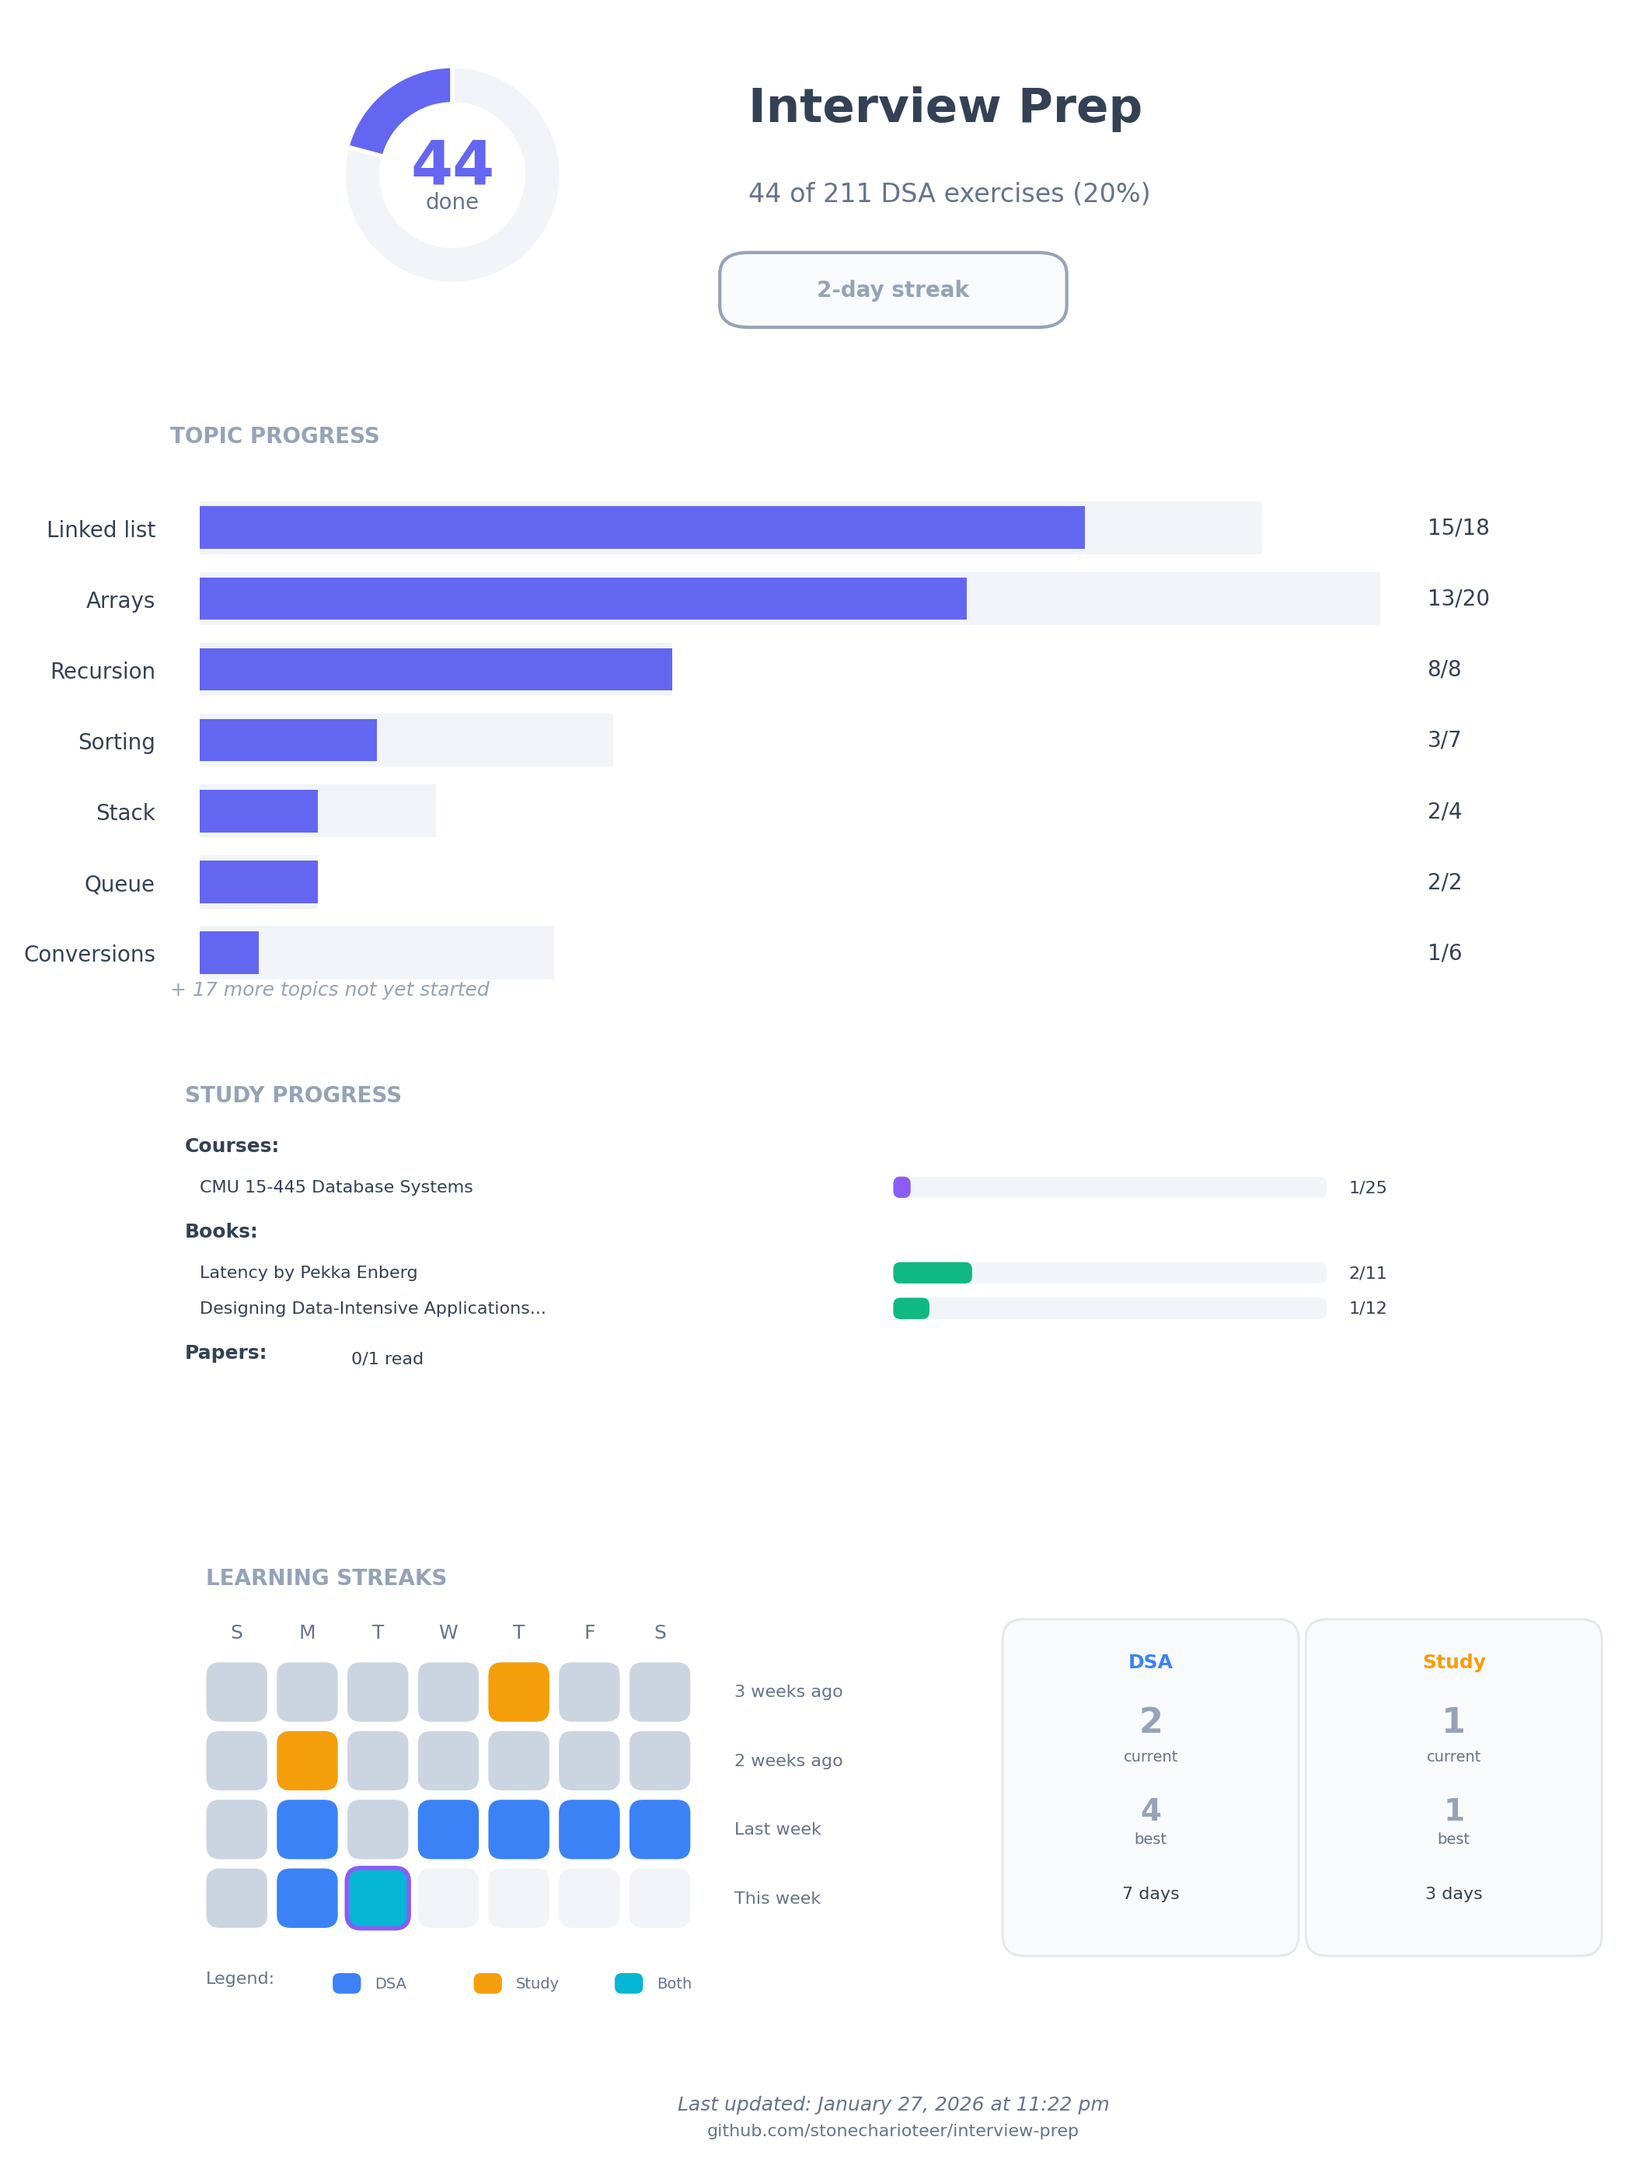
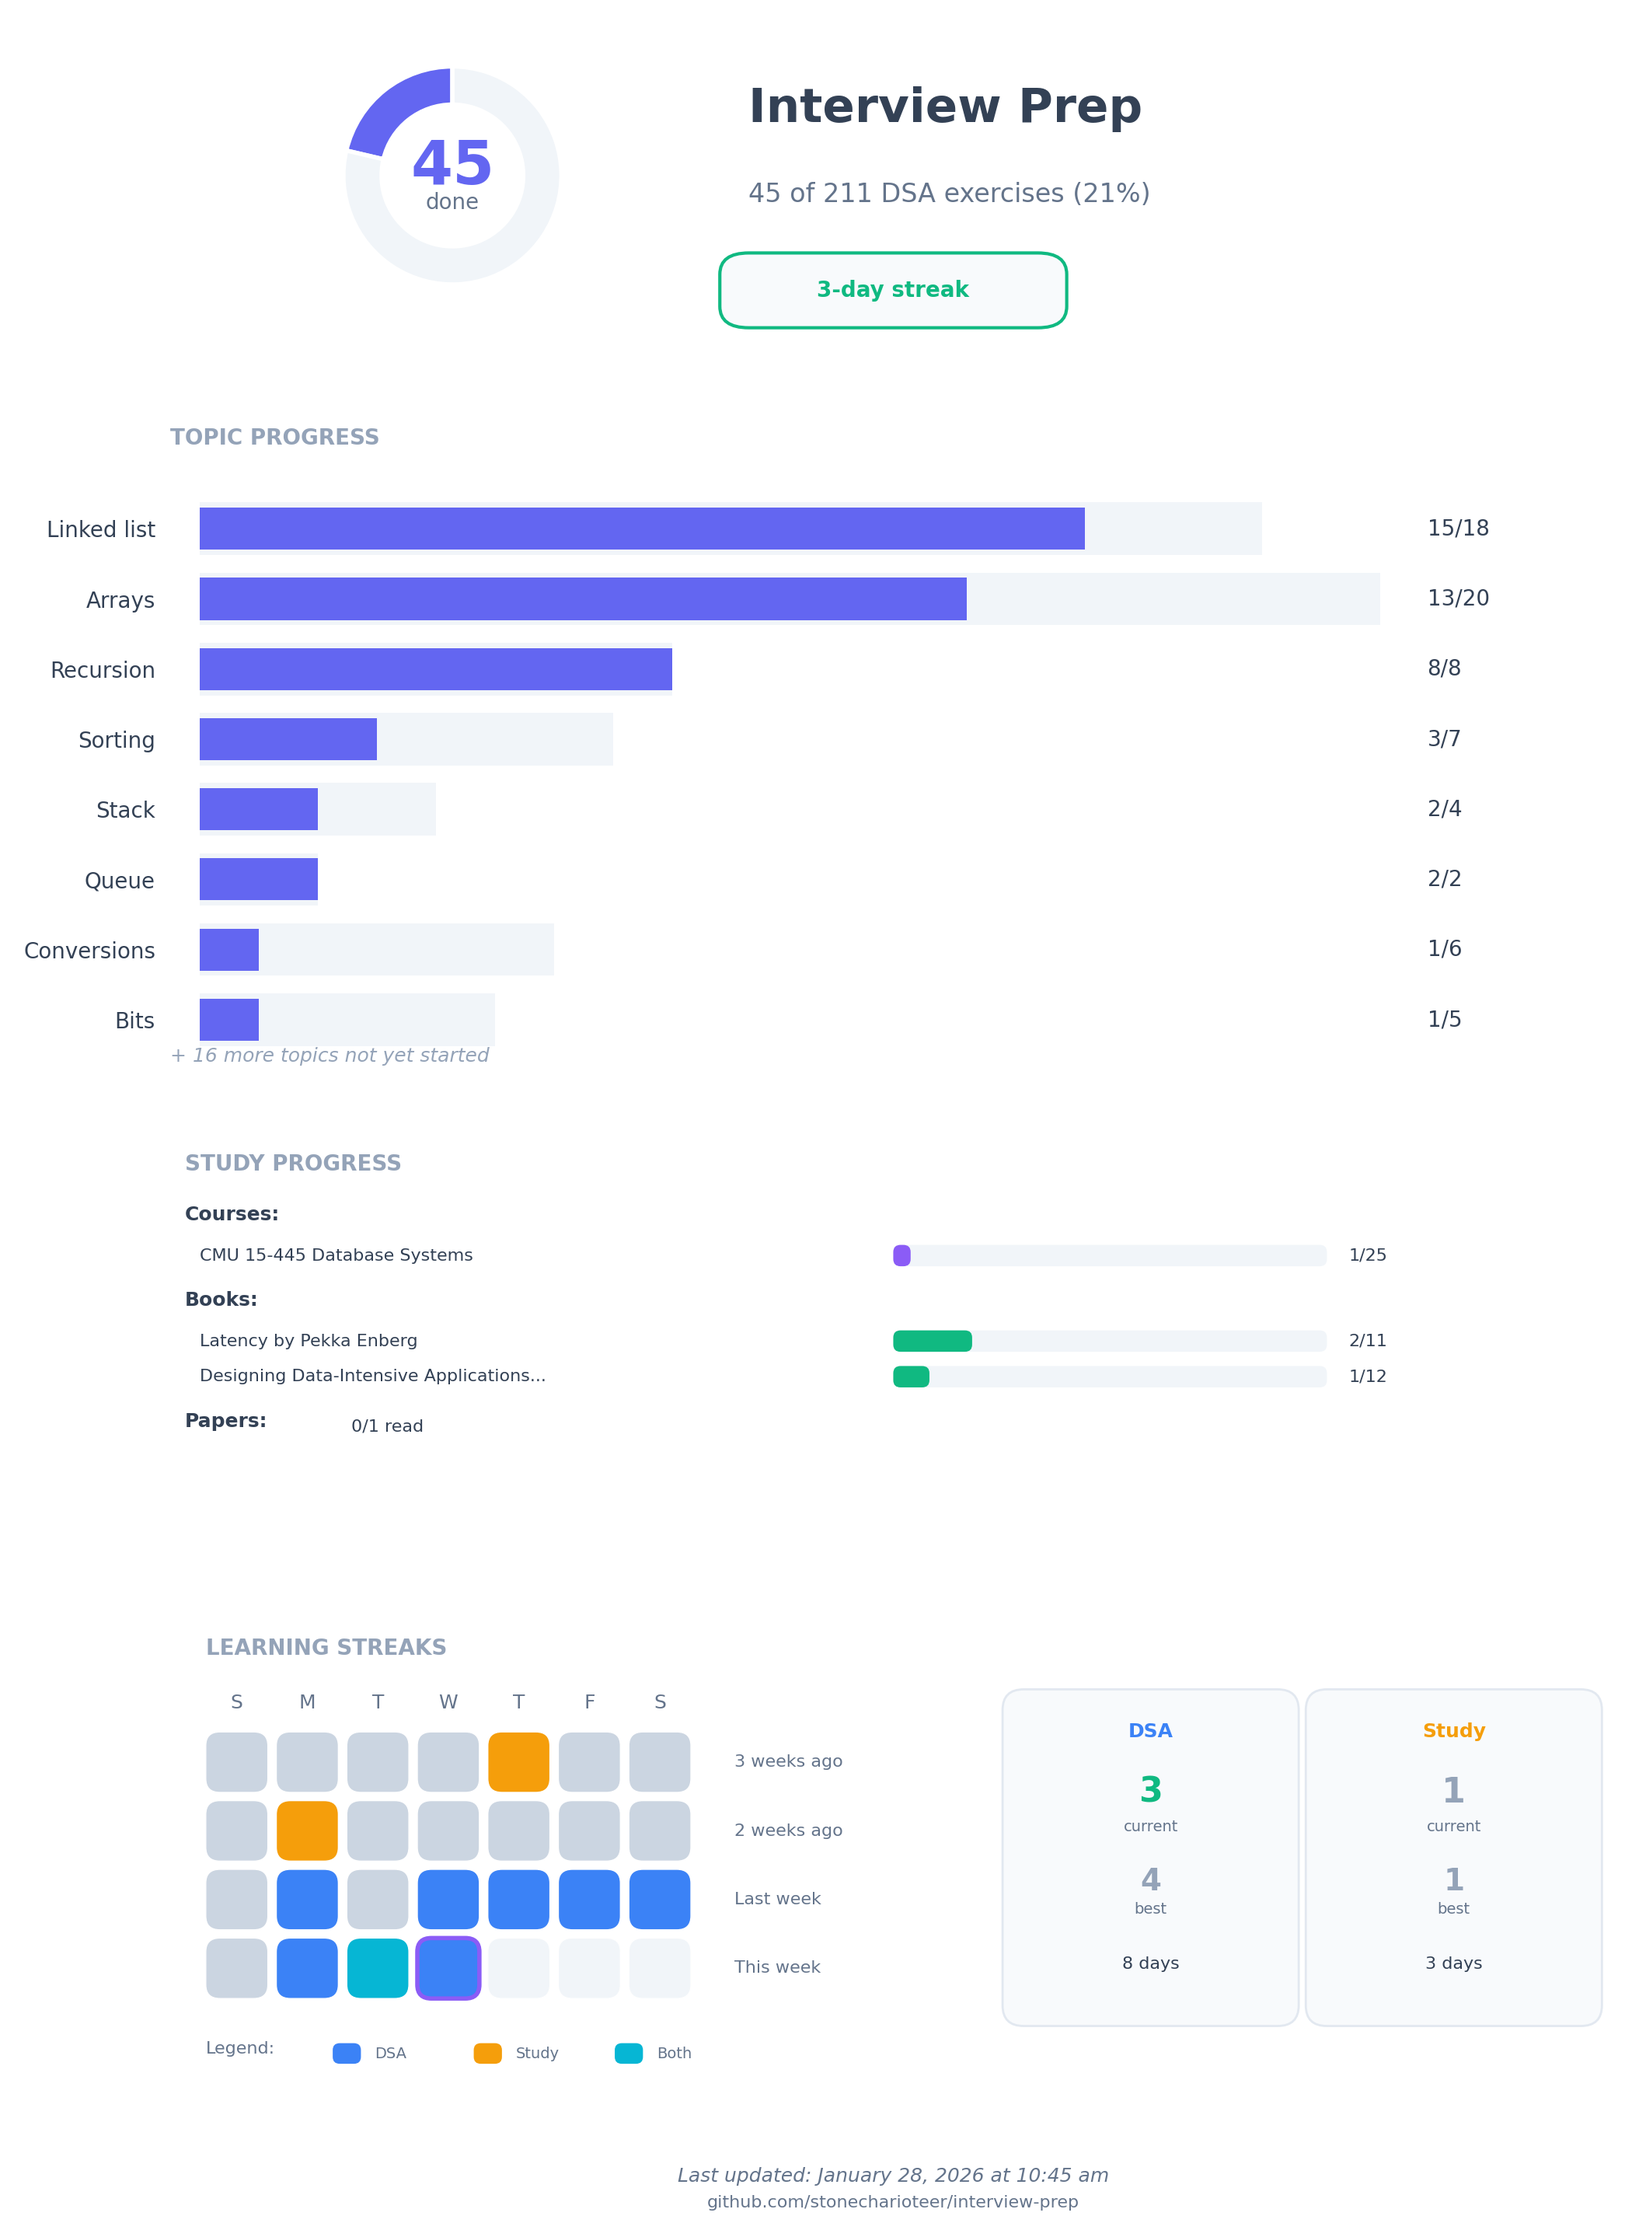
solve: powers of two

diff --git a/python/src/year_2026/bits.py b/python/src/year_2026/bits.py
@@ -1,19 +1,12 @@
 """Bit manipulation exercises."""
 
 
-def is_power_of_two(n):
+def is_power_of_two(n: int) -> bool:
     """Return True if n is a power of two, False otherwise. Handle n <= 0."""
-    print(n)
-    if n == 0:
-        return False
-    elif n == 1:
-        return True
-    else:
-        remainder = n % 2
-        while remainder >= 2:
-            remainder = remainder %2
-        return remainder == 0
-        
+    binary_value = f"{n:b}"
+    if binary_value.startswith("1"):
+        return "1" not in binary_value[1:]
+    return False
 
 
 def count_set_bits(n):

diff --git a/exercises.md b/exercises.md
@@ -1,6 +1,6 @@
 # Exercise List
 
-**Progress: 44/211 exercises completed in Python (20%)**
+**Progress: 45/211 exercises completed in Python (21%)**
 
 1. Arrays: `min.` 🐍[x] 🦀[ ] 🟨[ ]
 2. Arrays: `max.` 🐍[x] 🦀[ ] 🟨[ ]
@@ -36,7 +36,7 @@
 32. Linked list: `remove_first(n).` 🐍[x] 🦀[ ] 🟨[ ]
 33. Sorting: `insertion_sort (shift and insert).` 🐍[x] 🦀[ ] 🟨[ ]
 34. Stack: `evaluate_postfix (reverse polish notation).` 🐍[ ] 🦀[ ] 🟨[ ]
-35. Bits: `check if number is power of two.` 🐍[ ] 🦀[ ] 🟨[ ]
+35. Bits: `check if number is power of two.` 🐍[x] 🦀[ ] 🟨[ ]
 36. Bits: `count set bits (Hamming weight).` 🐍[ ] 🦀[ ] 🟨[ ]
 37. Arrays: `binary_search (only after is_sorted is solid).` 🐍[x] 🦀[ ] 🟨[ ]
 38. Binary search: `find_first_occurrence (leftmost index).` 🐍[ ] 🦀[ ] 🟨[ ]
